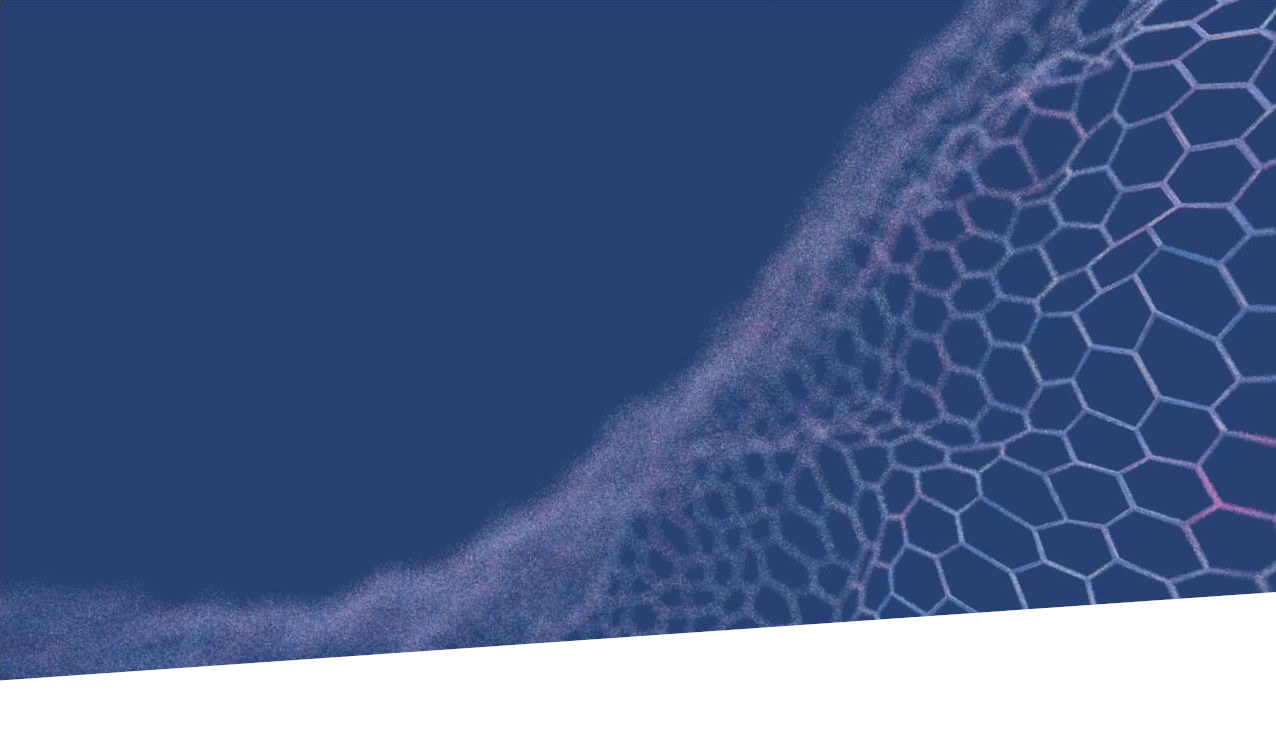
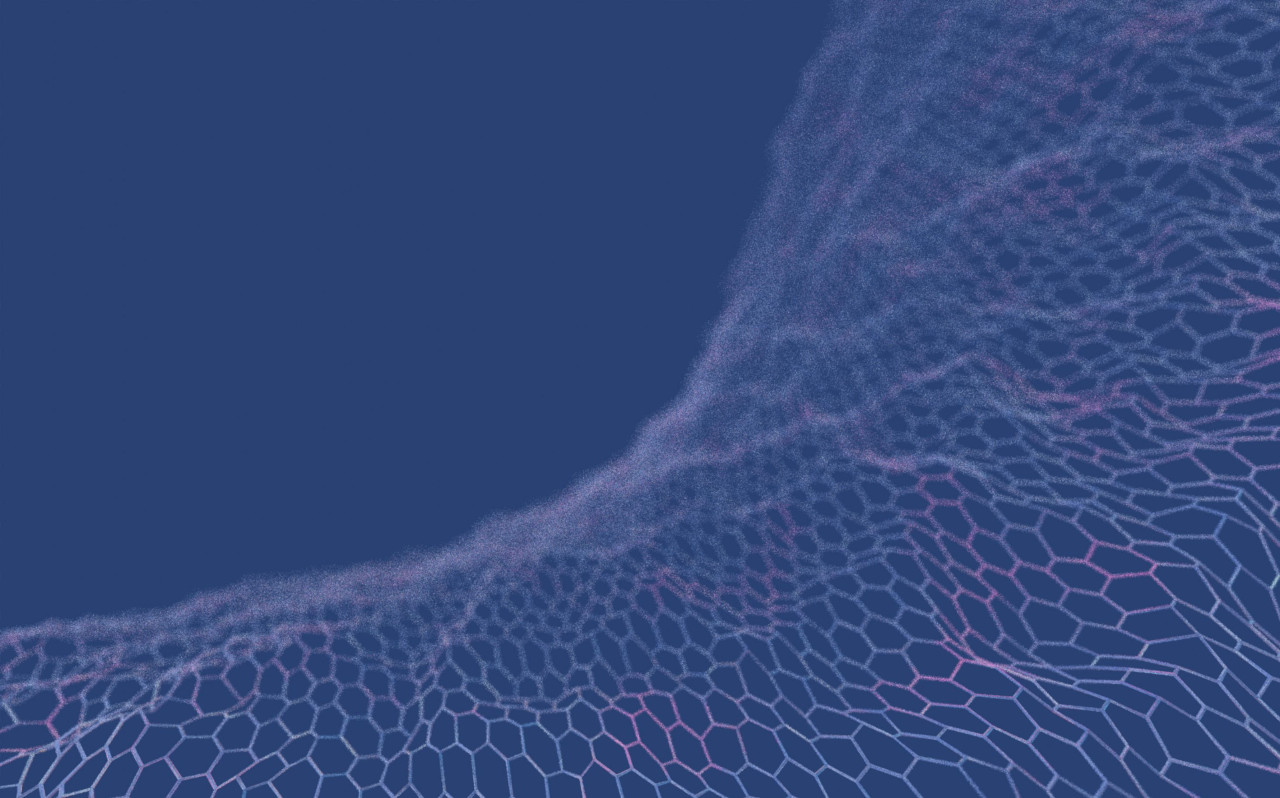
attempt to fix hero with darkmode

diff --git a/pages/iot/index.vue b/pages/iot/index.vue
@@ -4,7 +4,11 @@ useContentHead(data);
 </script>
 <template>
   <main>
-    <FpHero :background="data.header_images[1].image" alignment="bg-bottom">
+    <FpHero
+      :background="data.header_images[1].image"
+      alignment="bg-bottom"
+      class="relative z-0"
+    >
       <TheLocalBar
         image="assets/images/fedora_white.png"
         home="/iot"
@@ -24,6 +28,23 @@ useContentHead(data);
       >
         <FpImage :src="data.header_images[0].image" />
       </FpBanner>
+      <svg
+        viewBox="0 0 209.9868 38.261421"
+        version="1.1"
+        id="svg4475"
+        class="absolute -bottom-2.5 -z-10"
+        xmlns="http://www.w3.org/2000/svg"
+        xmlns:svg="http://www.w3.org/2000/svg"
+      >
+        <defs id="defs4472" />
+        <g id="layer1" transform="translate(0.04450727,-135.47272)">
+          <path
+            class="fill-white dark:fill-neutral-800"
+            d="M -0.04450727,156.66286 209.94229,135.47272 v 38.26142 H -0.04450727 Z"
+            id="path6102"
+          />
+        </g>
+      </svg>
     </FpHero>
 
     <!-- why fedora iot -->

diff --git a/pages/coreos/index.vue b/pages/coreos/index.vue
@@ -5,7 +5,11 @@ useContentHead(data);
 
 <template>
   <!-- Hero Section -->
-  <FpHero :background="data.header_images[1].image" alignment="bg-bottom">
+  <FpHero
+    :background="data.header_images[1].image"
+    alignment="bg-top"
+    class="relative z-0"
+  >
     <TheLocalBar
       image="assets/images/fedora-coreos-logo.png"
       home="/coreos"
@@ -26,6 +30,20 @@ useContentHead(data);
     >
       <FpImage :src="data.header_images[0].image" />
     </FpBanner>
+    <svg
+      viewBox="0 0 1918.6658 172.80759"
+      version="1.1"
+      xmlns="http://www.w3.org/2000/svg"
+      xmlns:svg="http://www.w3.org/2000/svg"
+      class="absolute -bottom-2.5 -z-10"
+    >
+      <g transform="translate(-0.38340506,-449.49539)">
+        <path
+          class="fill-white dark:fill-neutral-800"
+          d="m 0.38340505,456.69538 c 0,0 534.13975495,87.11876 983.48064495,87.11876 449.34085,0 935.18515,-94.31876 935.18515,-94.31876 V 622.303 H 0.38340505 Z"
+        />
+      </g>
+    </svg>
   </FpHero>
 
   <!-- Why Section -->

diff --git a/pages/workstation/index.vue b/pages/workstation/index.vue
@@ -3,7 +3,11 @@ const data = await getCMS("editions/workstation/home");
 useContentHead(data);
 </script>
 <template>
-  <FpHero :background="data.header_images[1].image" alignment="bg-bottom">
+  <FpHero
+    :background="data.header_images[1].image"
+    alignment="bg-bottom"
+    class="dark:bg-neutral-900 dark:!bg-none"
+  >
     <TheLocalBar
       image="assets/images/fedora-workstation-logo.png"
       home="/workstation"

diff --git a/pages/server/index.vue b/pages/server/index.vue
@@ -3,7 +3,11 @@ const data = await getCMS("editions/server/home");
 useContentHead(data);
 </script>
 <template>
-  <FpHero :background="data.header_images[1].image" alignment="bg-bottom">
+  <FpHero
+    :background="data.header_images[1].image"
+    alignment="bg-bottom"
+    class="relative z-0"
+  >
     <TheLocalBar
       image="assets/images/fedora_white.png"
       home="/server"

diff --git a/components/partials/FpHero.vue b/components/partials/FpHero.vue
@@ -15,7 +15,7 @@ defineProps({
       })`,
     }"
     style="min-height: 60vh"
-    :class="`${alignment} pb-30 w-screen max-w-full bg-cover pt-6 dark:bg-neutral-700 dark:bg-blend-multiply`"
+    :class="`${alignment} pb-30 w-screen max-w-full bg-cover pt-6`"
   >
     <slot />
   </div>

diff --git a/pages/coreos/download.vue b/pages/coreos/download.vue
@@ -402,6 +402,7 @@ useContentHead(data);
               id="x86_64"
               @click="switchArch('x86_64')"
               href="#download_section"
+              class="active"
             >
               <FpCard
                 title="x86_64"
